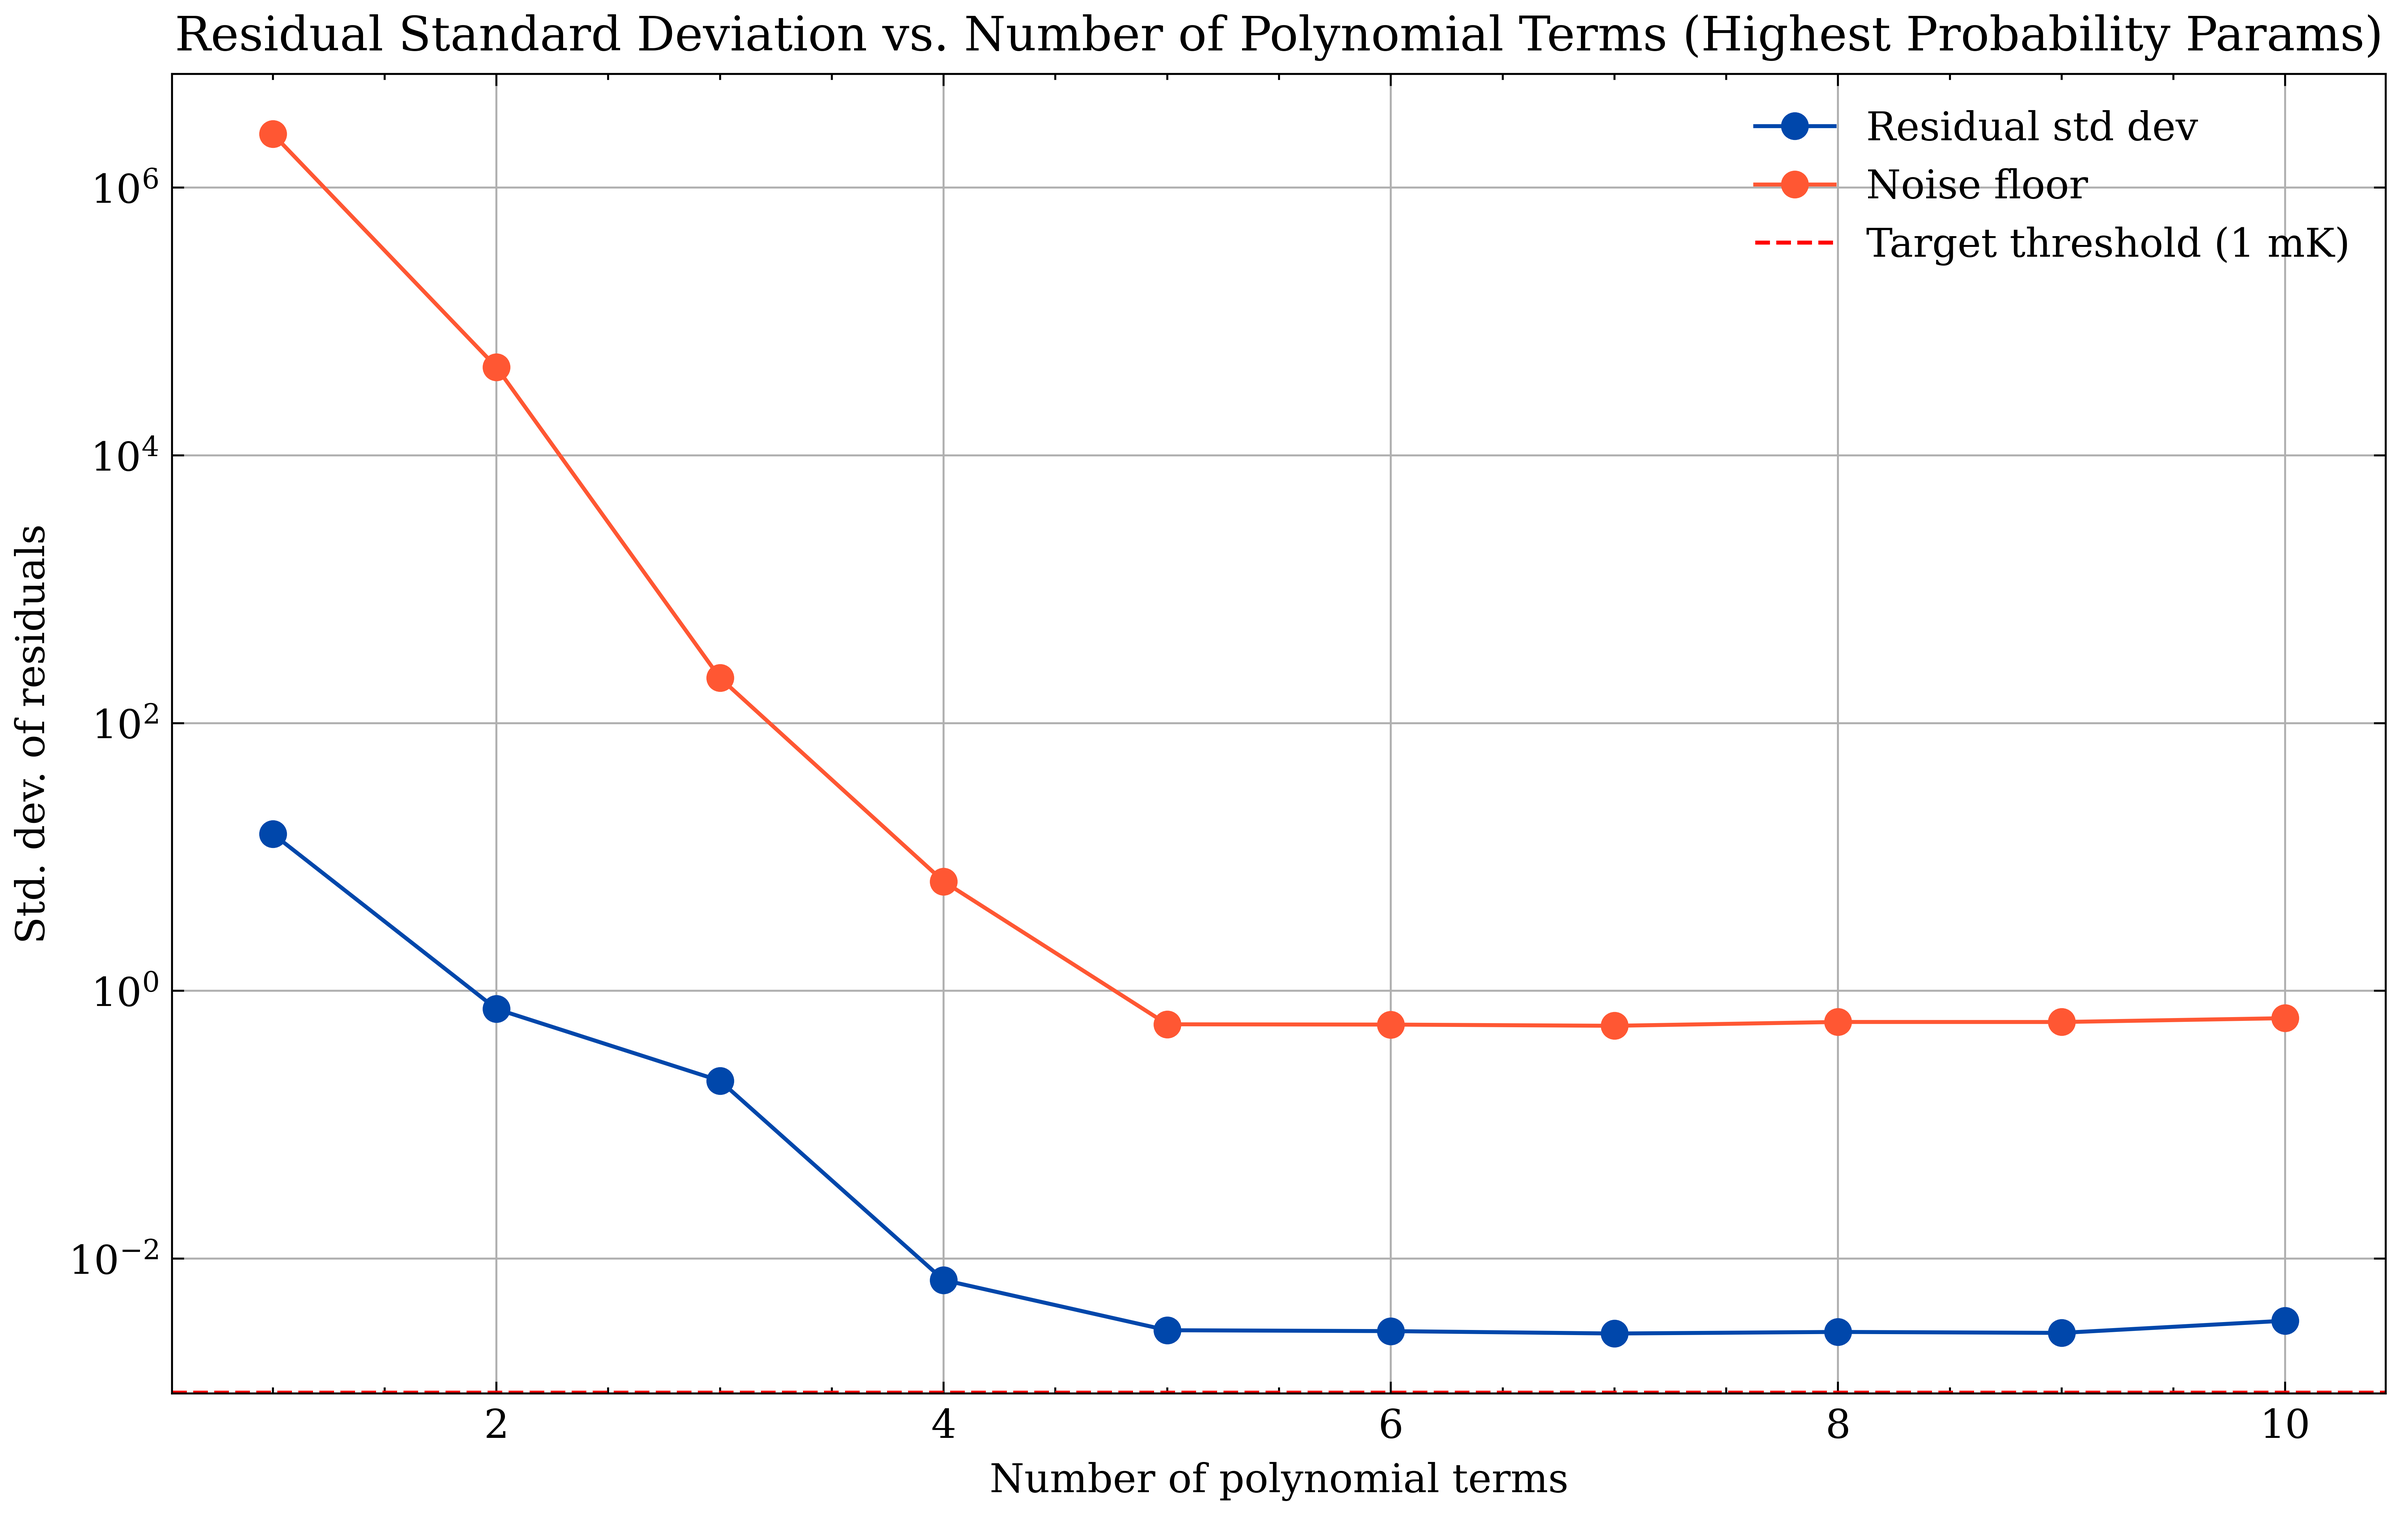
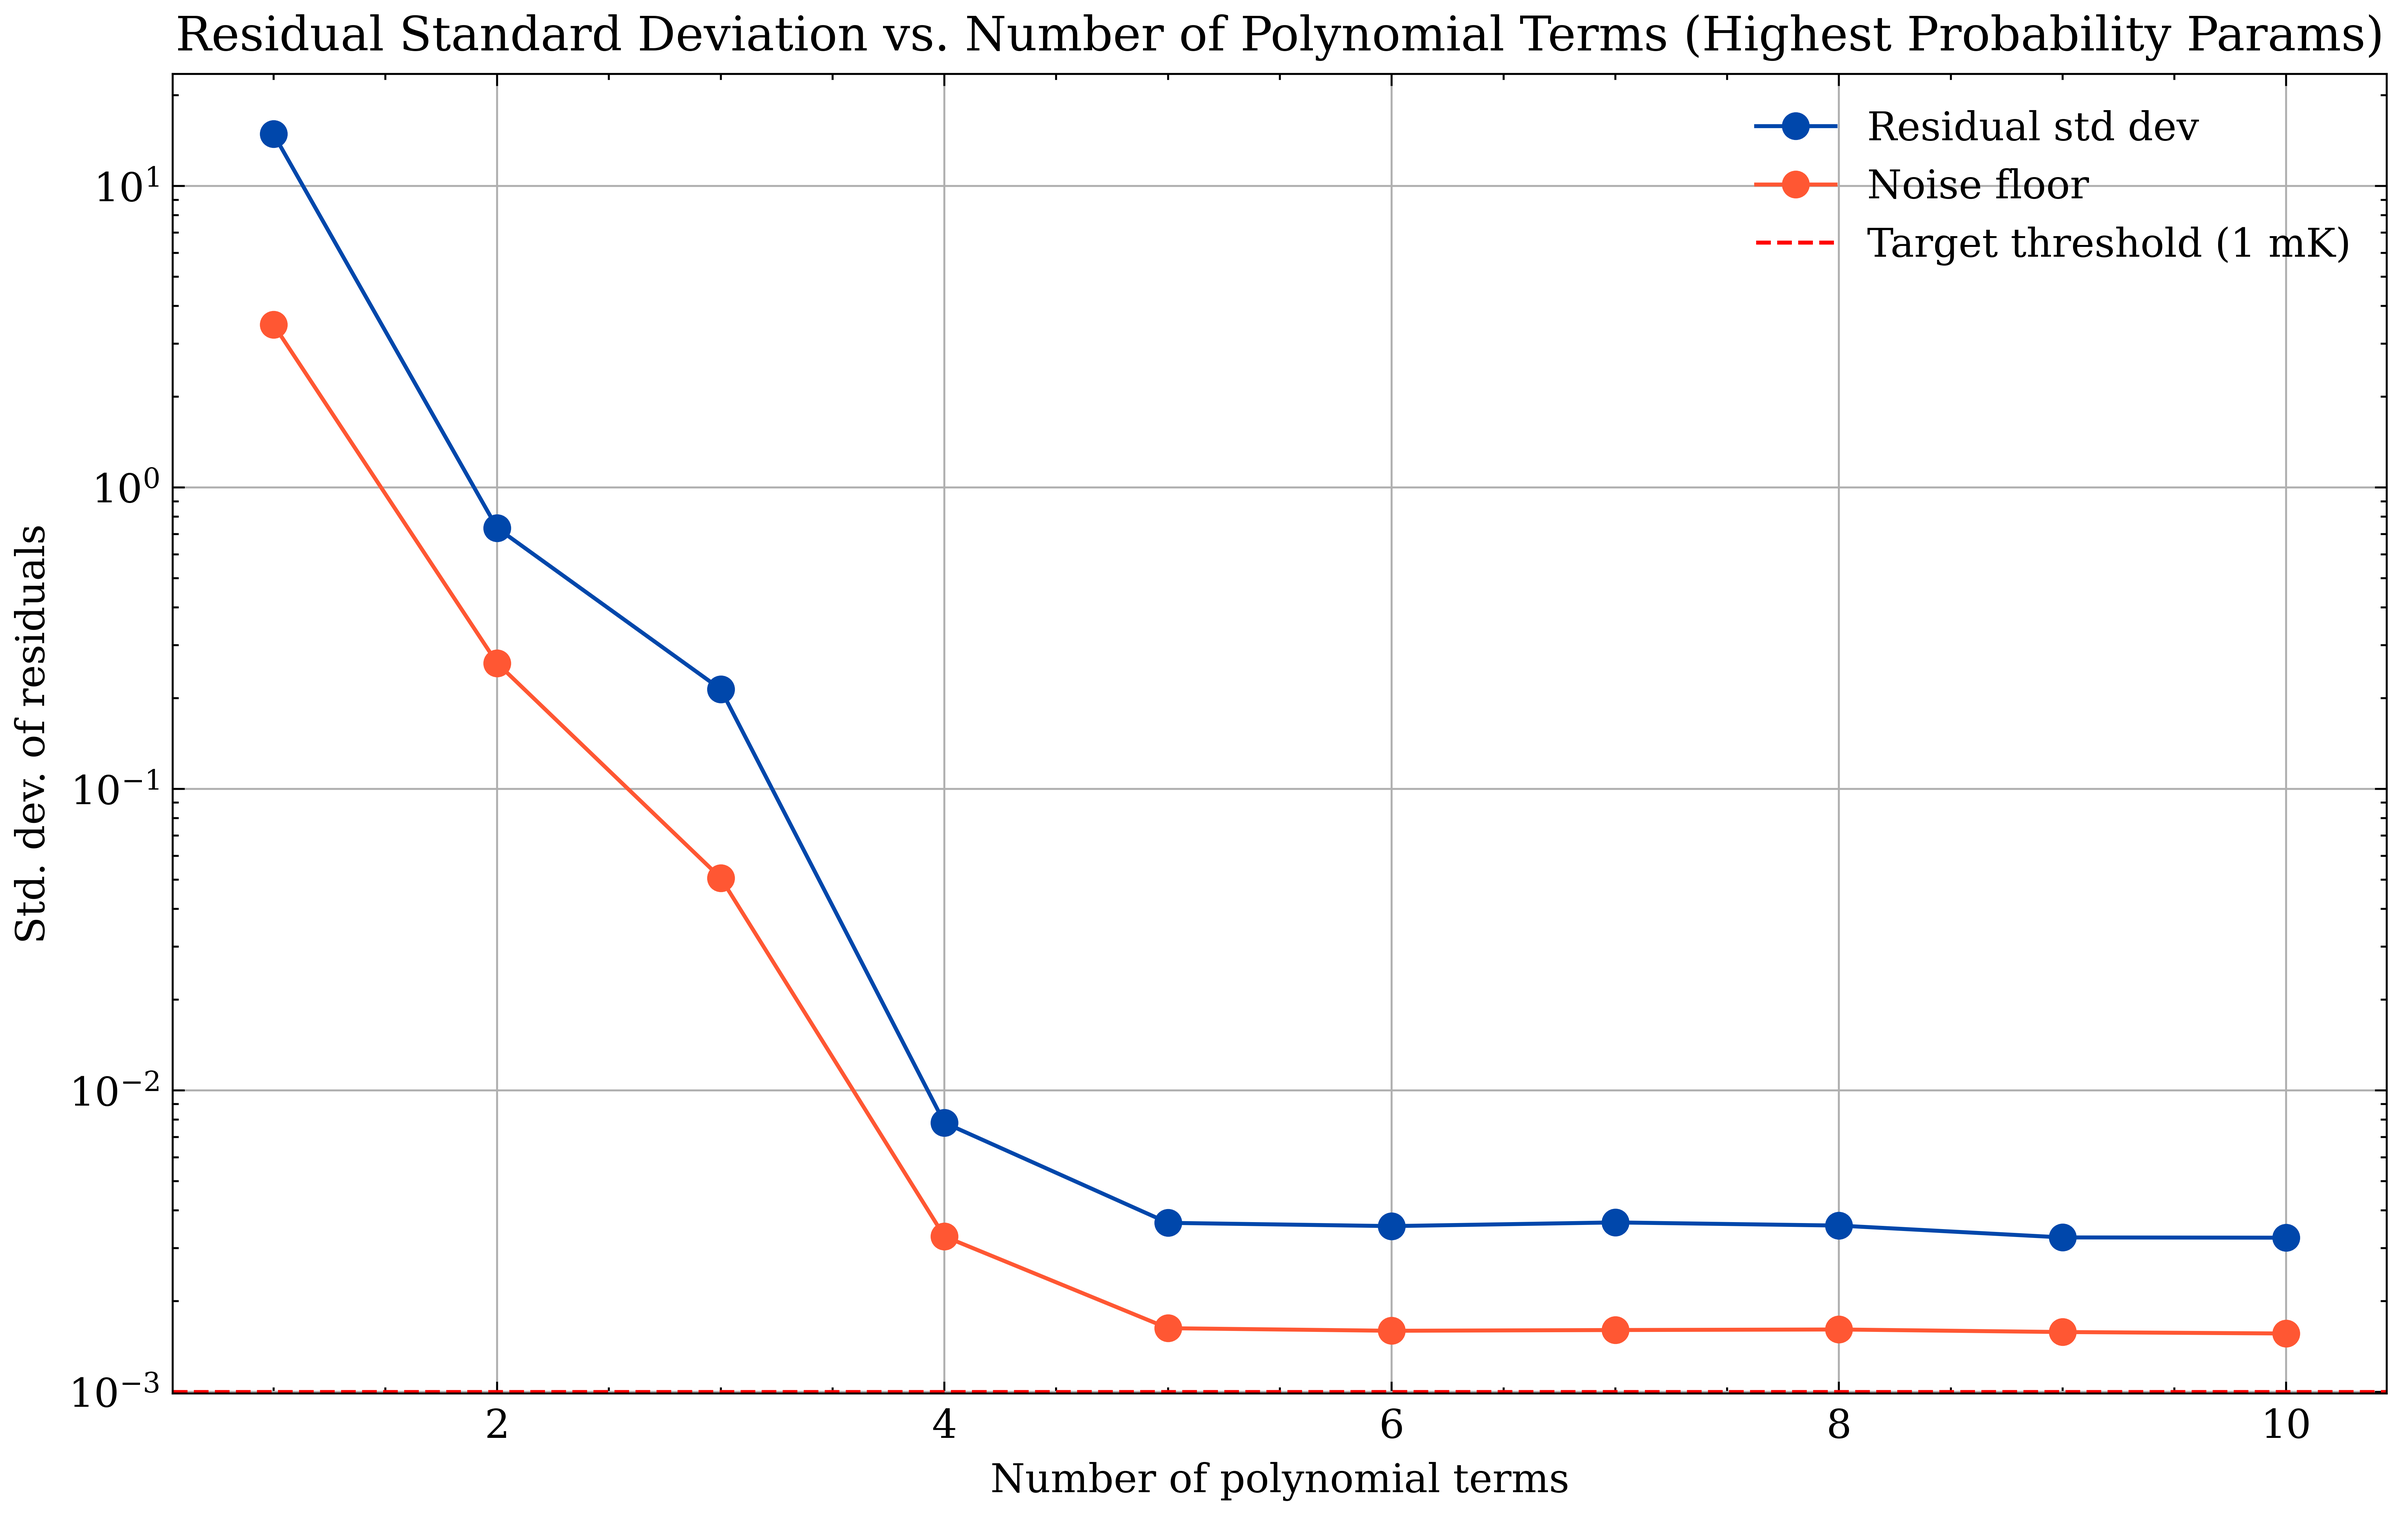
update

diff --git a/signal_extraction_bayesian.py b/signal_extraction_bayesian.py
@@ -8,7 +8,7 @@ import random
 import tqdm
 import emcee
 import corner
-
+np.random.seed(420)
 from concurrent.futures import ProcessPoolExecutor, ThreadPoolExecutor, as_completed
 plt.style.use('science')
 plt.rcParams['text.usetex'] = False
@@ -180,18 +180,27 @@ for n_terms in terms_list:
     print(f"Minimum abs residual (best fit): {np.min(np.abs(residuals_total))}")
 
     # noise_floor_highest_prob.append(np.sum(residuals_total / (yerr ** 2)) / np.sum(yerr ** -2))
-    
+
     noise_floor_numerator = 0
     noise_floor_denominator = 0
     for i in range(len(residuals_total)):
-        numerator = (residuals_total[i] / yerr[i]) ** 2
+        numerator = (residuals_total[i])** 2 / (yerr[i]) ** 2
         denominator = yerr[i] ** 2
-        noise_floor_numerator += numerator / denominator
+        noise_floor_numerator += numerator
         noise_floor_denominator +=  1 / denominator
-    noise_floor_highest_prob.append(noise_floor_numerator / noise_floor_denominator)
+    # noise_floor_highest_prob.append(noise_floor_numerator / noise_floor_denominator)
+
+    # plt.figure(figsize=(10, 6))
+    # plt.plot(residuals_total, label='Residuals (best fit)', color='blue')
+    # plt.plot(yerr** (-2), label='yerr', color='orange', linestyle='--')
+    # plt.legend()
+    # plt.show(block=False)
+    # plt.pause(5)
+    # plt.close()
+    noise_floor_highest_prob.append(np.sqrt(noise_floor_numerator / noise_floor_denominator))
     print(f"[n_terms={n_terms}] Total fit std dev of residuals (highest prob): {std_total}")
     print(f"[n_terms={n_terms}] Total fit noise floor (highest prob): {noise_floor_highest_prob[-1]}")
-    print(f"Numerator: {np.sum(residuals_total / (yerr ** 2))}, Denominator: {np.sum(yerr ** -2)}")
+    print(f"Numerator: {noise_floor_numerator}, Denominator: {noise_floor_denominator}")
 
 
     samples_subset = flat_samples[::10]
@@ -207,11 +216,11 @@ for n_terms in terms_list:
     noise_floor_numerator = 0
     noise_floor_denominator = 0
     for i in range(len(residuals_total)):
-        numerator = (residuals_total[i] / yerr[i]) ** 2
+        numerator = (residuals_total[i])** 2 / (yerr[i]) ** 2
         denominator = yerr[i] ** 2
-        noise_floor_numerator += numerator / denominator
+        noise_floor_numerator += numerator
         noise_floor_denominator +=  1 / denominator
-    noise_floor_mean_params.append(noise_floor_numerator / noise_floor_denominator)
+    noise_floor_mean_params.append(np.sqrt(noise_floor_numerator / noise_floor_denominator))
     print(f"[n_terms={n_terms}] Total fit std dev of residuals (mean params): {std_total}")
     print(f"[n_terms={n_terms}] Total fit noise floor (mean params): {noise_floor_mean_params[-1]}")
     print(f"Numerator: {noise_floor_numerator}, Denominator: {noise_floor_denominator}")
